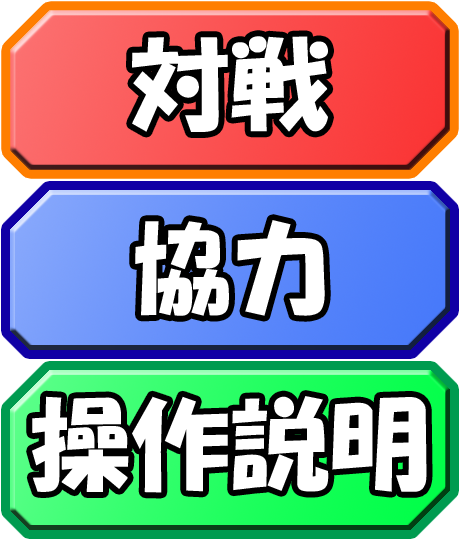
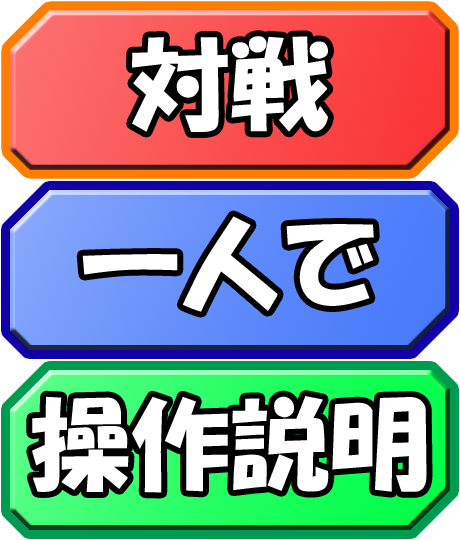
menuの画像変更とplayerの死亡時処理変更

Changed region(s): [[0.1522, 0.3852, 0.8522, 0.6222]]

diff --git a/zelda/source/ResultScene.cpp b/zelda/source/ResultScene.cpp
@@ -4,9 +4,23 @@
 
 ResultScene::ResultScene()
 {
+	ResultScene::Init();
 }
-
 
 ResultScene::~ResultScene()
 {
+}
+
+uniqueBase ResultScene::UpDate(uniqueBase own, const GameCtrl & controller)
+{
+	return uniqueBase();
+}
+
+void ResultScene::ResultDraw(void)
+{
+}
+
+int ResultScene::Init(void)
+{
+	return 0;
 }

diff --git a/zelda/source/ScoreBoard.cpp b/zelda/source/ScoreBoard.cpp
@@ -95,6 +95,7 @@ void ScoreBoard::DataInit(void)
 	guard = 0;
 	inv = 0;
 	bonus = 0;
+	oldScore = 0;
 	additionTime = 8;
 }
 
